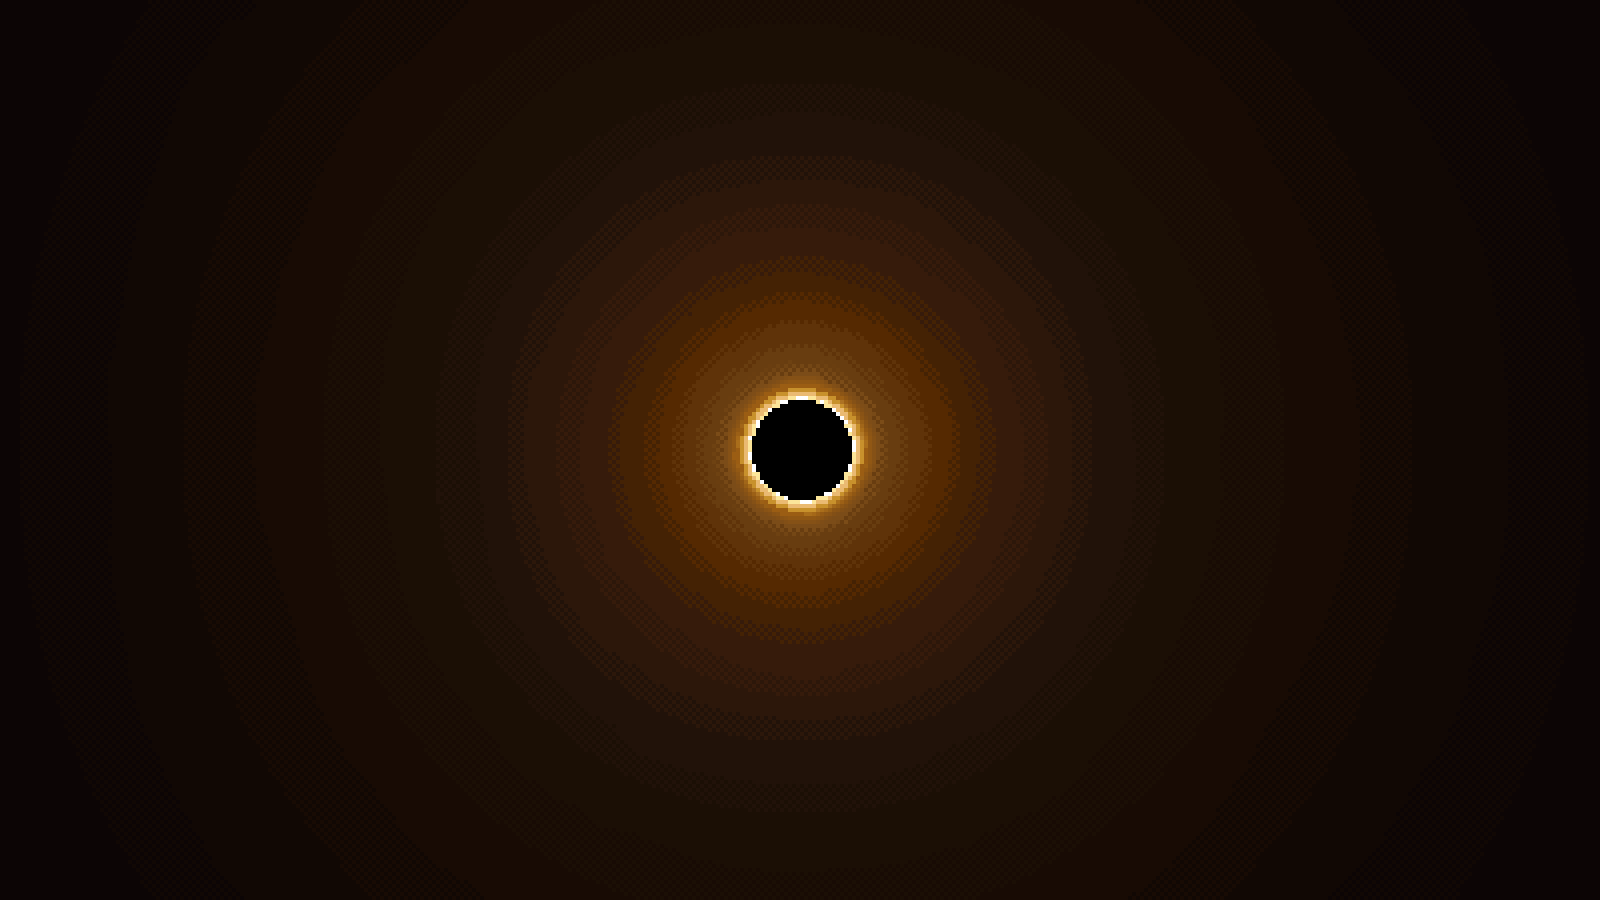
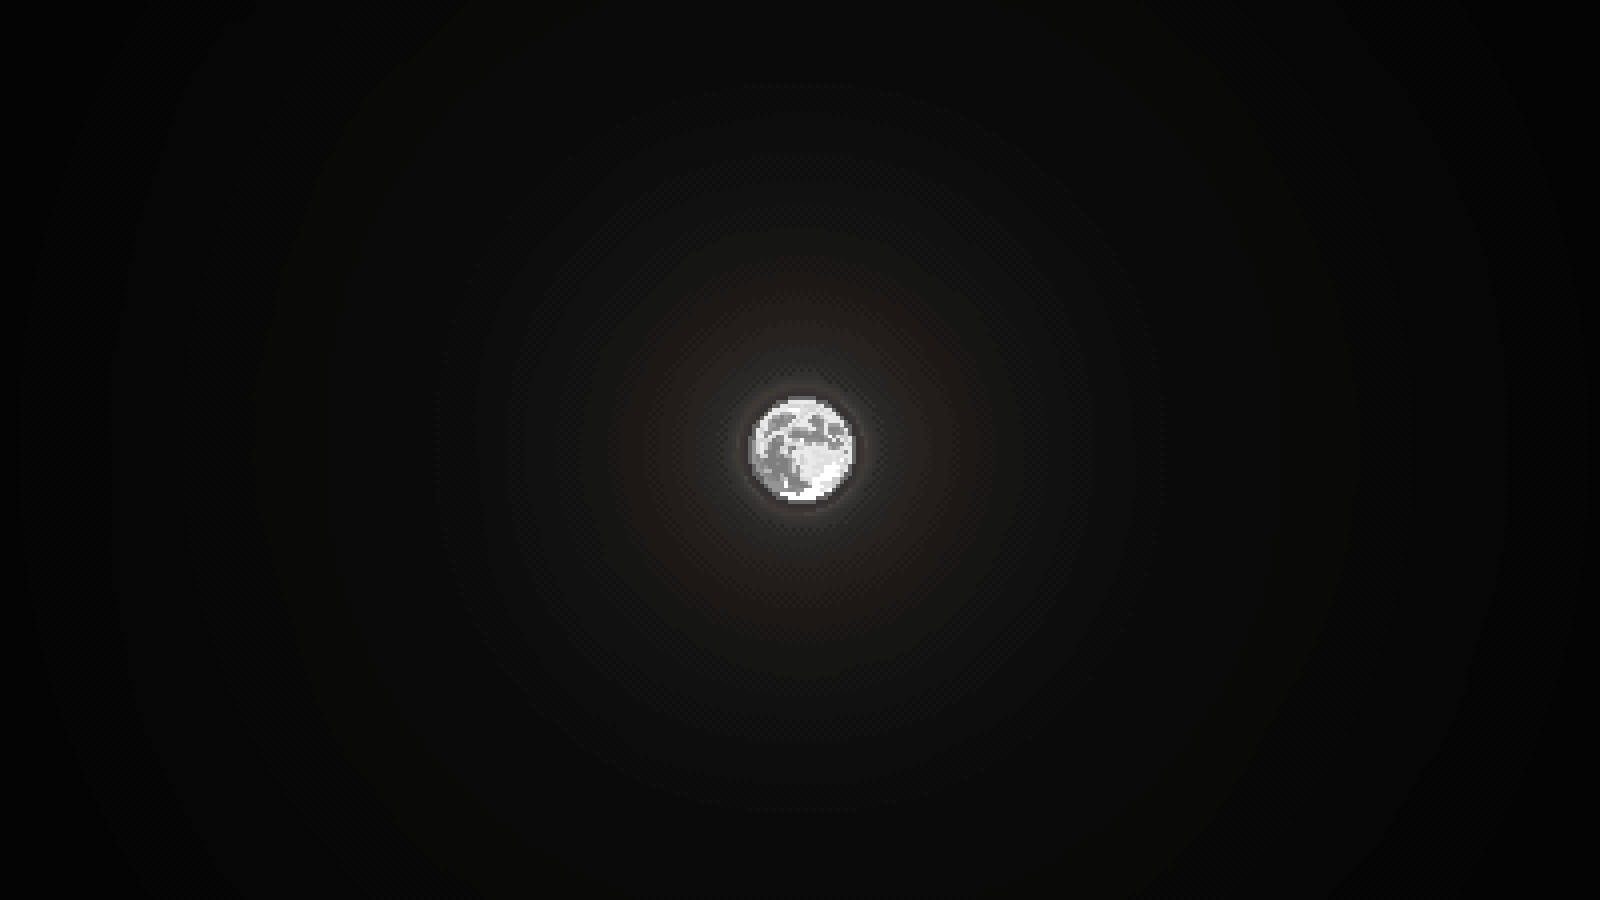
Alpha-v0.1.5
-Changed the background from black hole to moon

-Changed explosion resolution

-Changed ship resolution

Changed region(s): [[0.3125, 0.1556, 0.6875, 0.84]]

diff --git a/main.py b/main.py
@@ -125,8 +125,8 @@ class Bullet(Player):
         for i in self.bullet_list:
             i.draw_bullet(screen)
             i.update_bullet()
-            distance = math.sqrt((i.x - black_hole_pos[0]) ** 2 + (i.y - black_hole_pos[1]) ** 2)
-            if distance < i.radius * 5 + black_hole_radius:
+            distance = math.sqrt((i.x - moon_pos[0]) ** 2 + (i.y - moon_pos[1]) ** 2)
+            if distance < i.radius * 5 + moon_radius:
                 self.bullet_list.remove(i)
             if i.x < 0 or i.x > width or i.y < 0 or i.y > height:
                 self.bullet_list.remove(i)
@@ -217,15 +217,16 @@ def restart_game():
     pygame.time.set_timer(shield_event, 15000, 1)
 
 
-def black_hole(player):
-    global black_hole_pos
-    global black_hole_radius
-    black_hole = pygame.draw.circle(screen, 'black', (width // 2, height // 2), (width / 34.78))
-    black_hole_pos = black_hole.center
-    black_hole_radius = black_hole.width // 2
+def draw_moon(player):
+    global moon_pos
+    global moon_radius
+    moon_surf = pygame.Surface((width, height), pygame.SRCALPHA)
+    moon = pygame.draw.circle(moon_surf, (0, 0, 0, 0), (width // 2, height // 2), (width / 34.78))
+    moon_pos = moon.center
+    moon_radius = moon.width // 2
     if player.health >= 1:
-        distance = math.sqrt((player.x - black_hole_pos[0]) ** 2 + (player.y - black_hole_pos[1]) ** 2)
-        if distance < player.h / 2 + black_hole_radius:
+        distance = math.sqrt((player.x - moon_pos[0]) ** 2 + (player.y - moon_pos[1]) ** 2)
+        if distance < player.h / 2 + moon_radius:
             player.health -= 1
             pygame.time.set_timer(restart_event, 3000, 1)
             pygame.mixer.Channel(3).play(player1.sound_explode)
@@ -279,8 +280,8 @@ def menu_screen():
     screen.fill('black')
     logo = pygame.image.load('Graphics/logo.png').convert_alpha()
     resized_logo = pygame.transform.scale(logo, ((width // 2.56), (height // 8.62)))
-    screen.blit(resized_logo, ((width // 3.28), (height // 10)))
-    display_text('alpha-v0.1.4', (width // 1.36), (height // 4.76), 'grey', (width // 95))
+    screen.blit(resized_logo, ((width // 3.29), (height // 10)))
+    display_text('alpha-v0.1.5', (width // 1.36), (height // 4.76), 'grey', (width // 95))
     display_text('START', w_half, h_half - 50)
     display_text('OPTIONS', w_half, h_half)
     display_text('EXIT', w_half, h_half + 50)
@@ -357,7 +358,7 @@ powerups = {
     "ammo": {"collected": True, "color": 'goldenrod3'},
     "shield": {"collected": True, "color": 'dodgerblue3'},
 }
-debug = True
+debug = False
 game_active = False
 main_menu = True
 options_menu = False
@@ -532,9 +533,9 @@ while running:
         player1.update()
         player2.update()
         # screen.fill('black')
-        screen.blit(background_resized, (0, 0))
-        black_hole(player1)
-        black_hole(player2)
+        screen.blit(background_resized, (-2, 0))
+        draw_moon(player1)
+        draw_moon(player2)
         # Stop drawing when explosion animation ends
         if player1.current_sprite < 9:
             player1.draw()
@@ -588,14 +589,15 @@ while running:
     clock.tick(60)
 pygame.quit()
 
-# -Added a new background
-# -Added bullet to black hole collision detection
-# -Added music to the main menu
-# -Changed ship models
+# Done:
+# -Changed the background from black hole to moon
+# -Changed explosion sprites resolutions
+# -Changed ship sprites resolutions
 
 # To do:
+# -Add credits somewhere
+# -Hot potato mode
 # -Add a new powerup
-# -Change explosion sprite to pixel art
 # -Limit thruster (TBD)
 
 # To fix:
